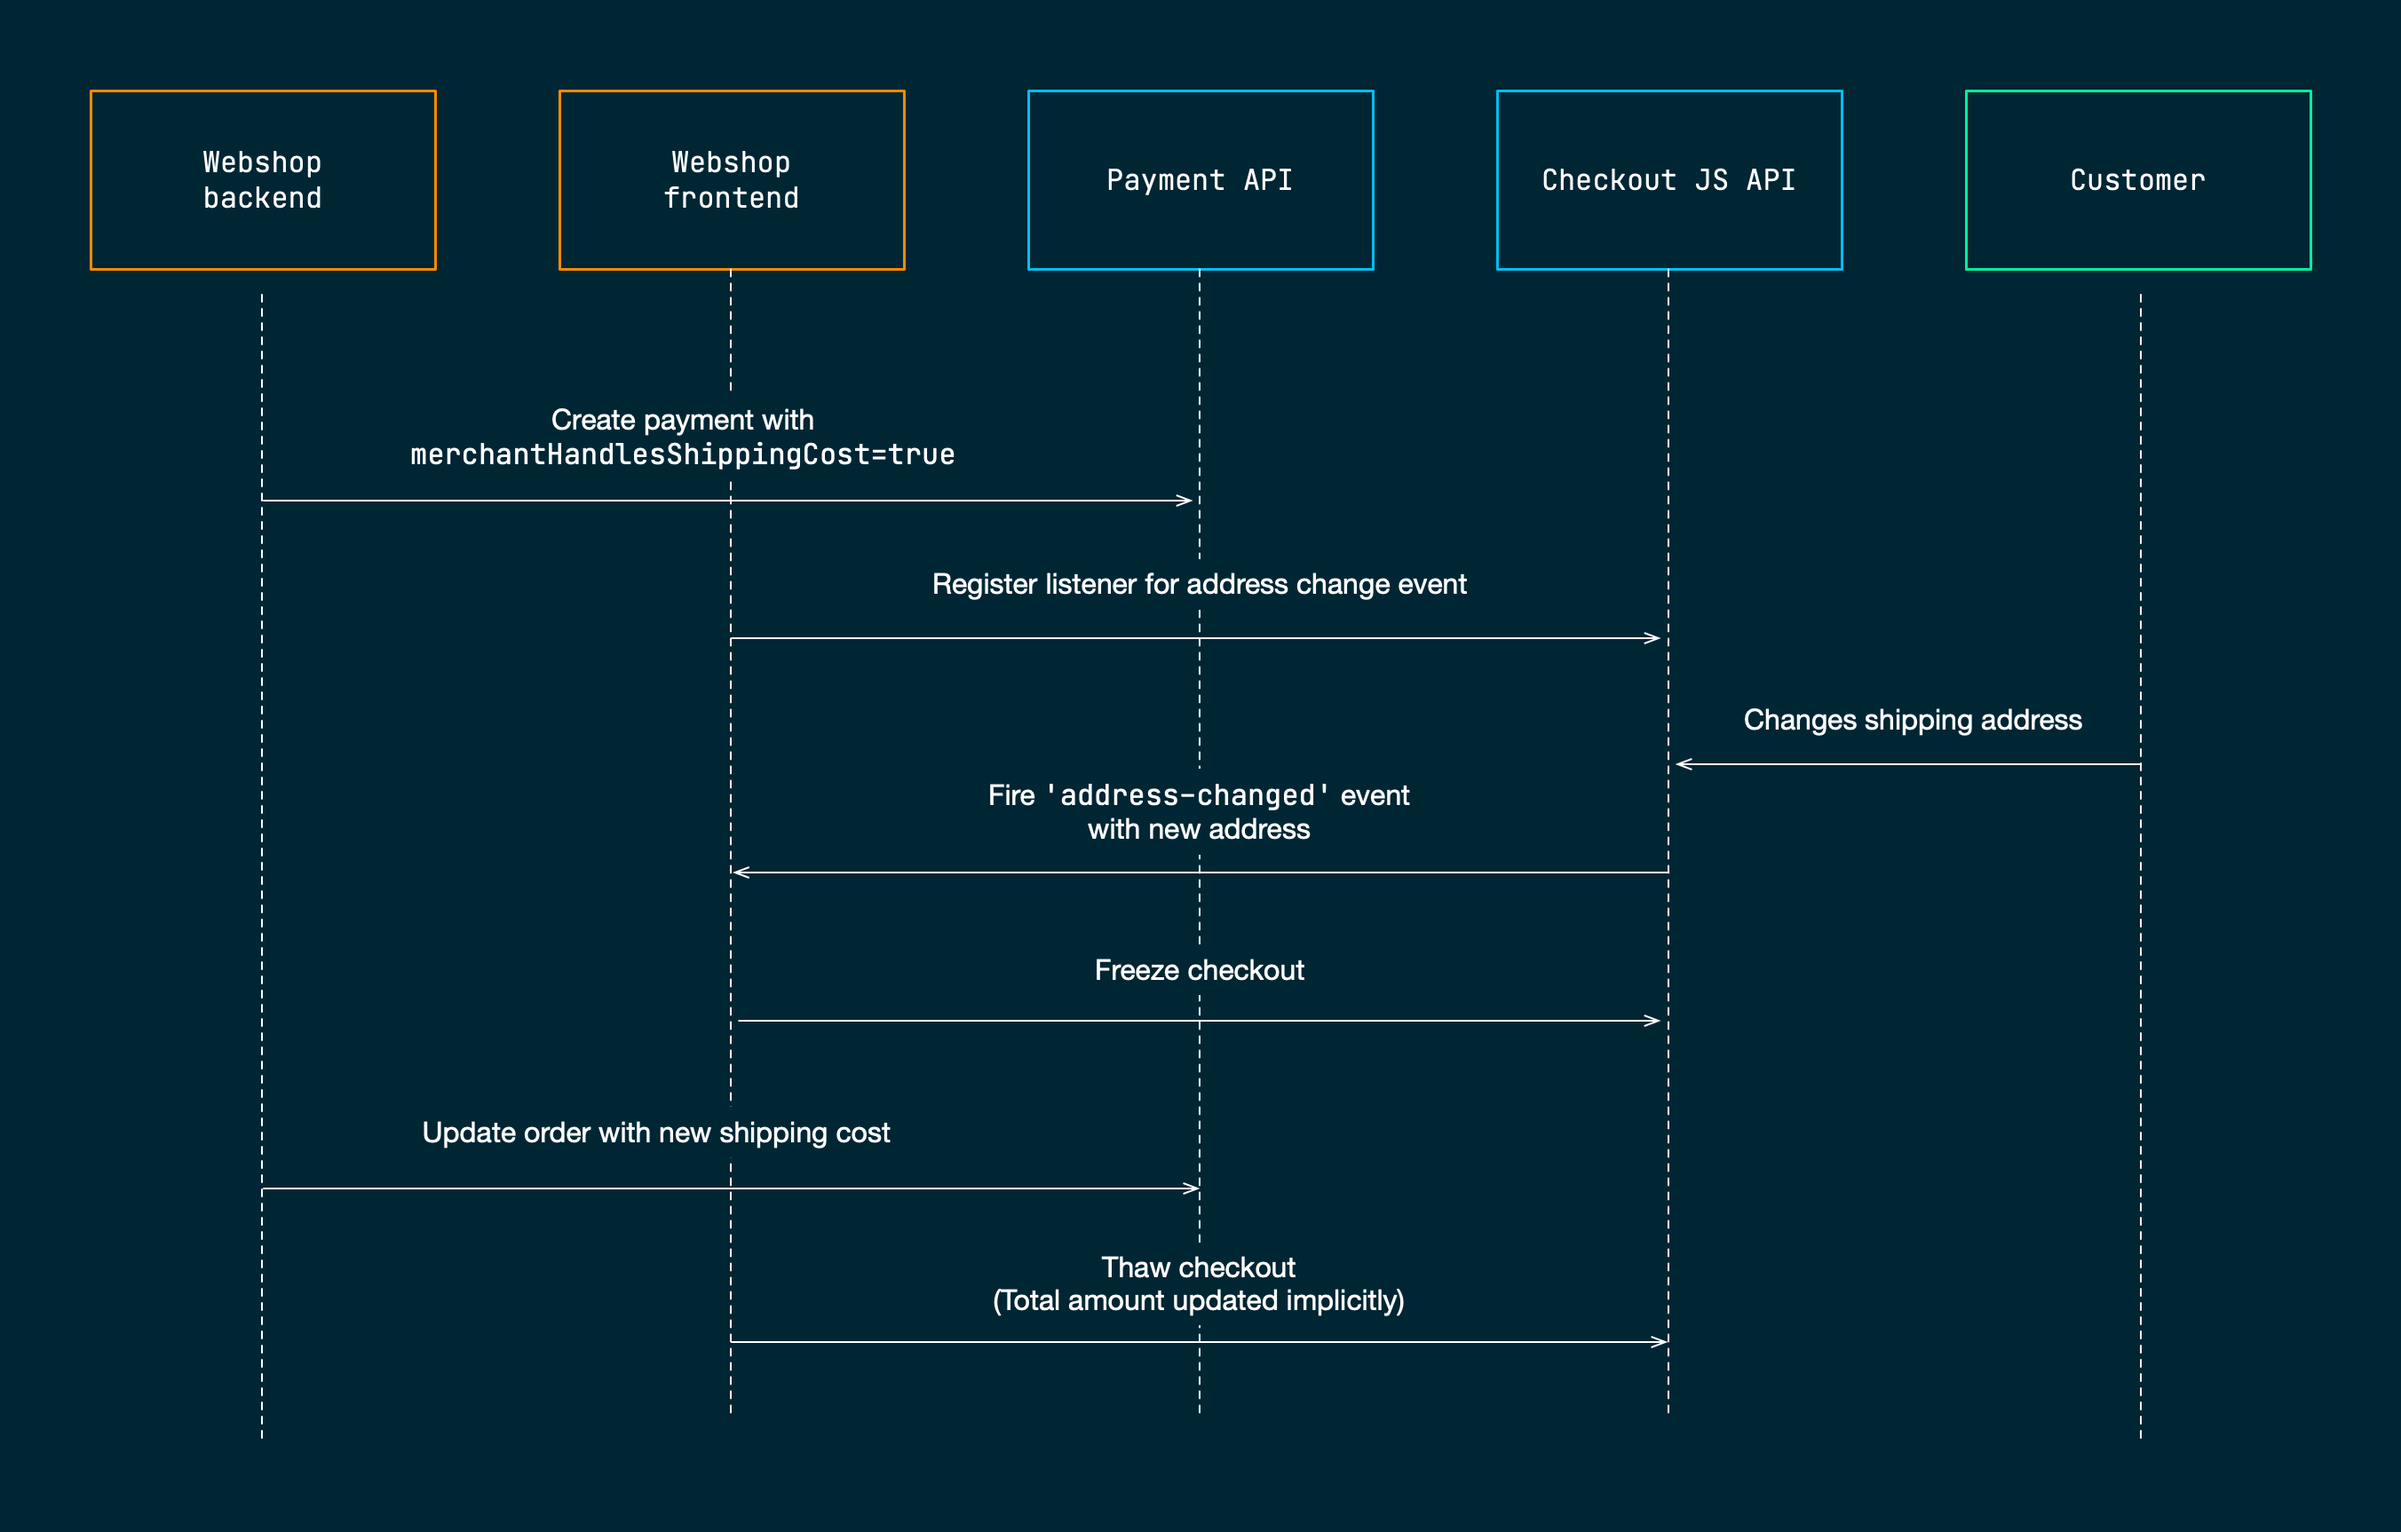
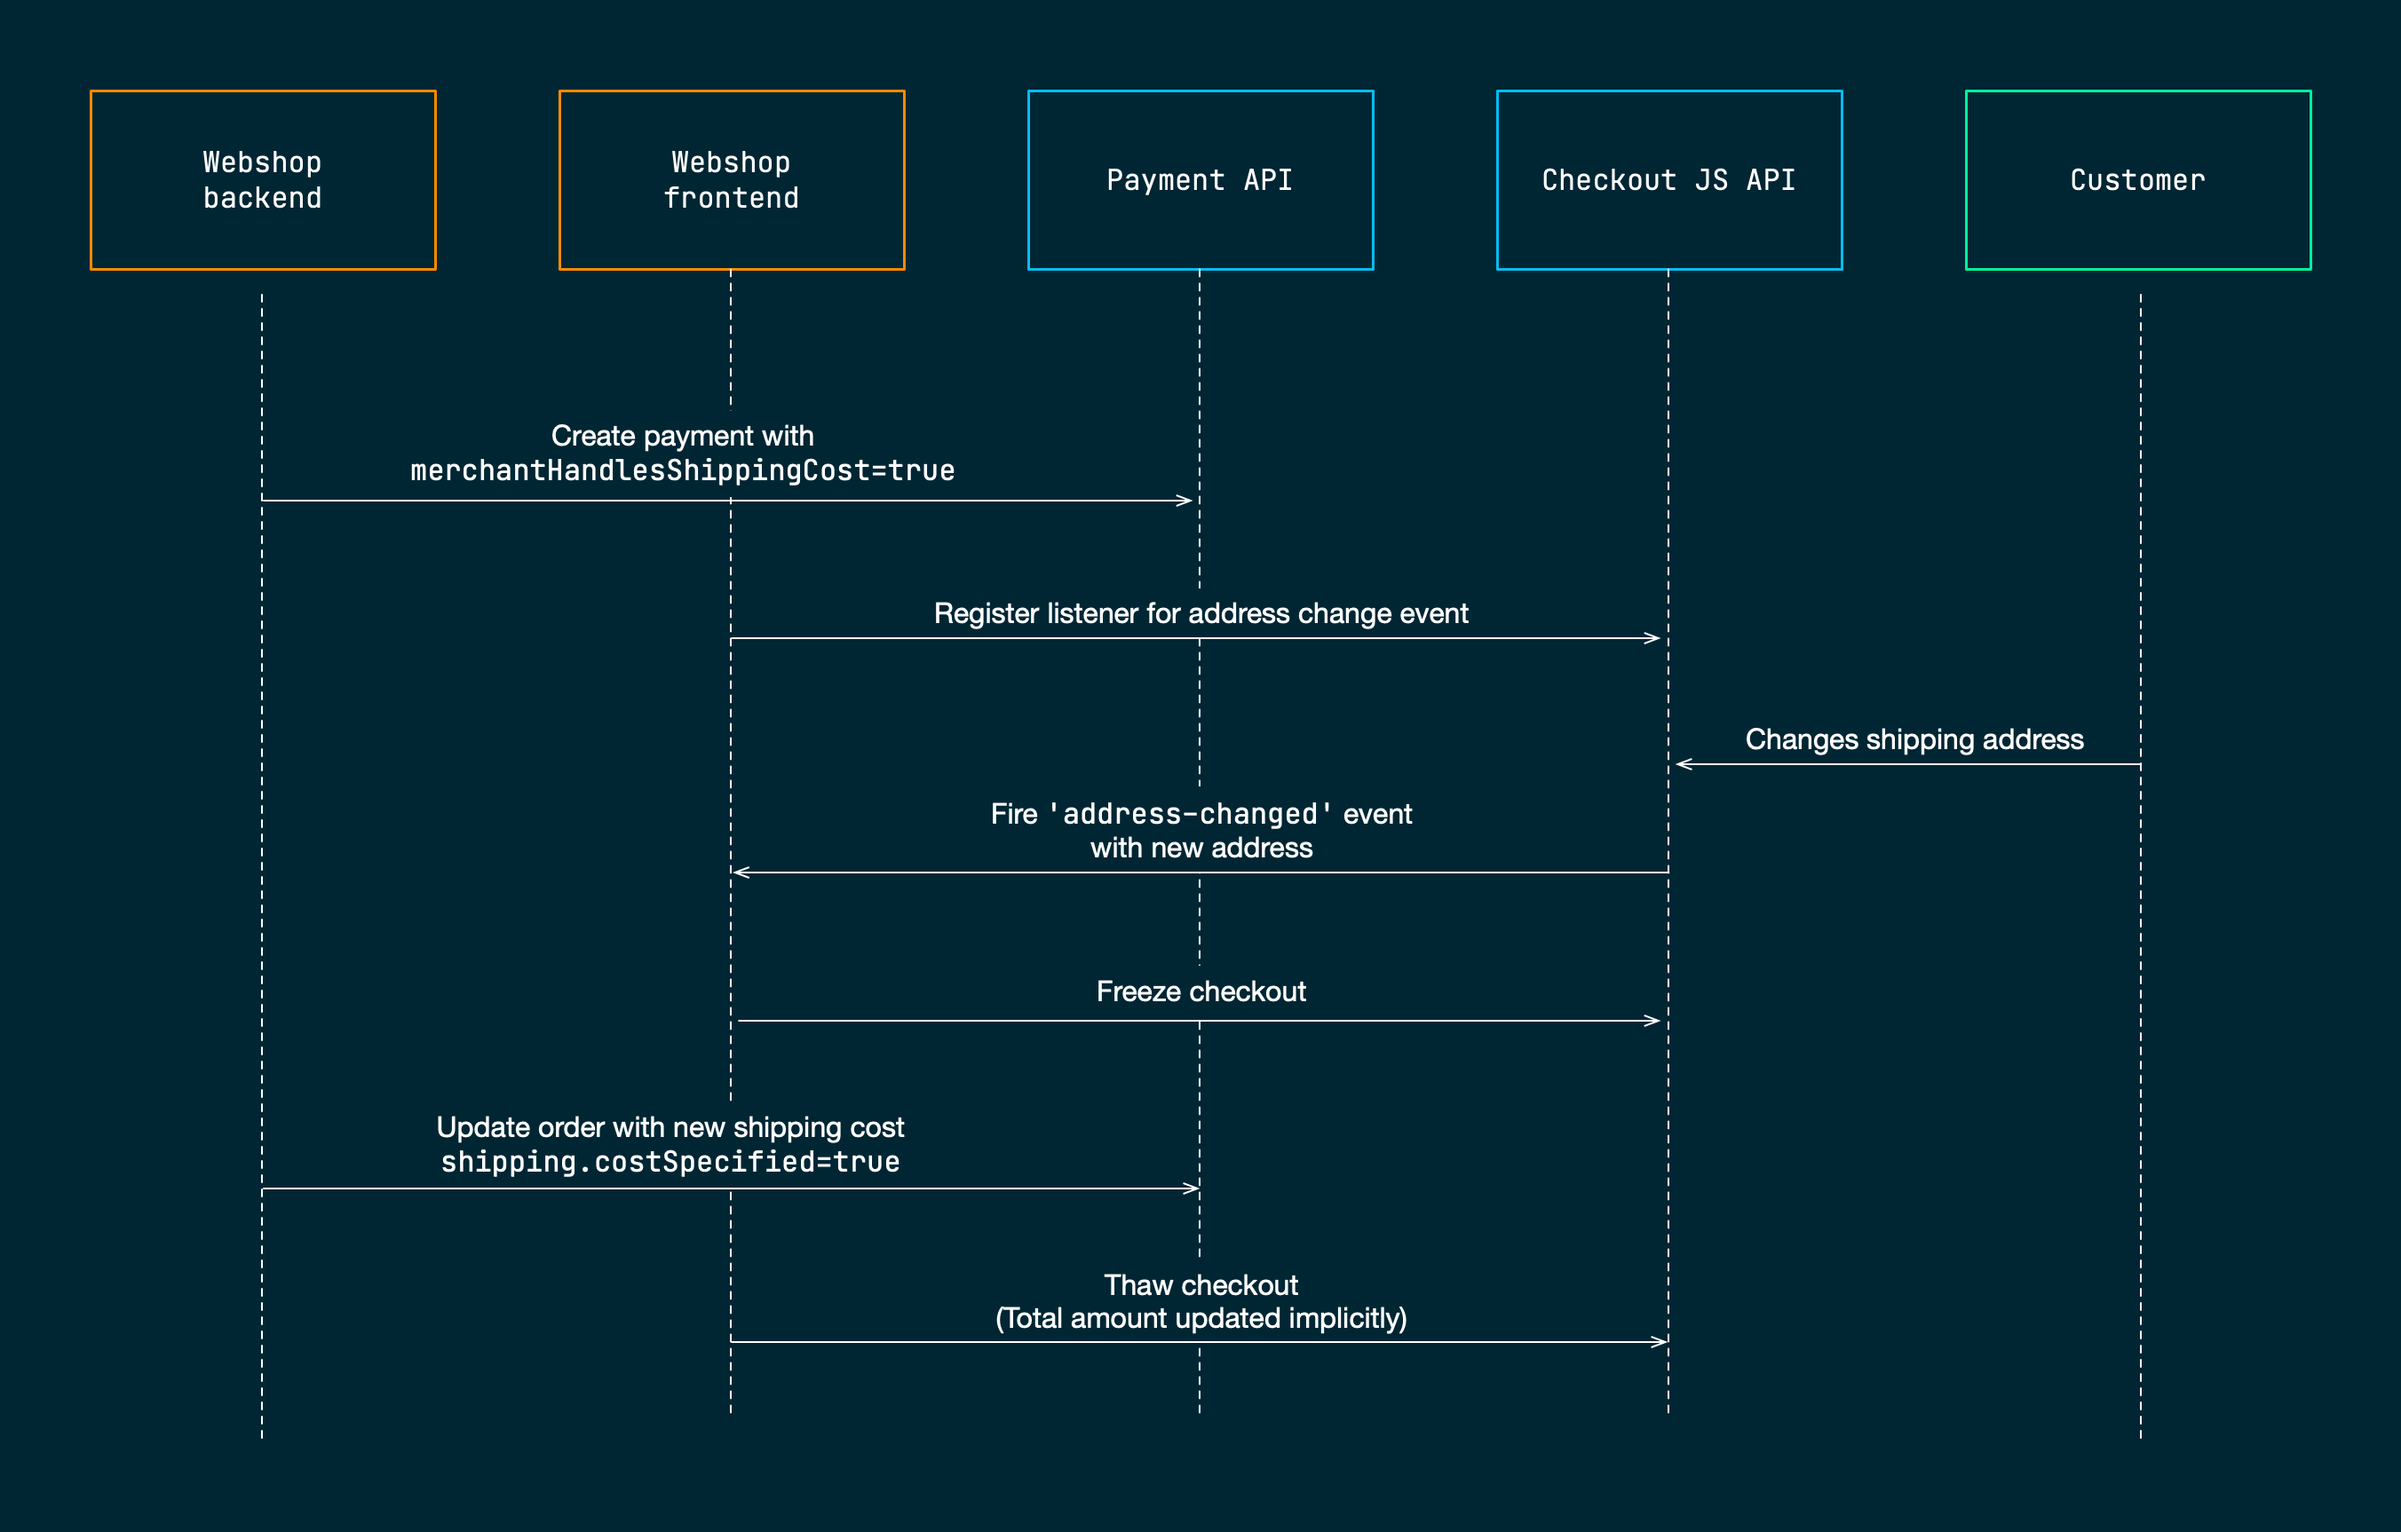
shipping costs

diff --git a/user-testing/add-shipping-costs.md b/user-testing/add-shipping-costs.md
@@ -1,9 +1,9 @@
-# Add shipping cost
+# Add shipping costs
 
-It's possible to add shipping cost to your customer's order. Shipping costs are usually affected at the end of the payment flow when your customer's address is specified. To handle this, your site need to interact with the Easy Checkout during the payment session.
+It's possible to add shipping cost to your customer's order. Shipping costs are usually affected at the end of the payment flow when your customer's address is specified. To handle this, your site need to interact with the Easy Checkout during ongoing the payment session.
 
-Shipping costs are added to the order as a regular item in the `order` object. However, 
-To enable destination based shipping cost, merchant must set the shipping cost flag when creating the payment (checkout.shipping.merchantHandlesShippingCost):
+Shipping costs are added to the order as a regular item in the `order` object passed to the Payment API. However, 
+to enable destination based shipping cost, you must set the flag `merchantHandlesShippingCost` to `true` when creating the payment object using the Payment API. In this way, Easy Checkout will 
 
 
 
@@ -35,7 +35,103 @@ A typical scenario where you want to update an existing payment session is when 
 
 
 
-To update the shipping cost we need to `PUT` a new `items` object to the path `/v1/payments/{paymentId}/orderitems`. The following code shows how calculate a new random shipping cost and update the shipping cost item in the order:
+
+
+Whenever
+
+
+
+
+
+## Step 1: Set merchantHandlesShippingCost (backend)
+
+To be able to handle destination based shipping costs, you need to pass the flag `merchantHandlesShippingCost` when creating the payment object using the method `POST /vi/payments` of the Payment API.
+
+When the backend of your site creates the creating the payment object 
+merchantHandlesShippingCost
+
+Add the flag `merchantHandlesShippingCost` when creating the payment object using the method `POST /vi/payments` of the Payment API. The following JSON object serves as an example:
+
+```json
+{
+  "order": {
+      "items": [
+          {
+              "reference": "42",
+              "name": "Demo product",
+              "quantity": 2,
+              "unit": "hours",
+              "unitPrice": 80000,
+              "grossTotalAmount": 160000,
+              "netTotalAmount": 160000
+          }
+      ],
+      "amount": 160000,
+      "currency": "SEK",
+      "reference": "Demo Order"
+  },
+  "checkout": {
+      "integrationType": "EmbeddedCheckout",
+      "url": "https://<YOUR_SERVER>/checkout.html",
+      "termsUrl": "https://<YOUR_SERVER>/terms.html",
+      "shipping": {
+        "countries": [],
+        "merchantHandlesShippingCost": true
+      }
+  }
+}
+```
+
+By setting `merchantHandlesShippingCost` to `true`, Easy Checkout will not proceed with a payment unless a shipping cost has been added to the order.
+
+## Step 2: Register an `address-changed` listener (frontend)
+
+Add a listener on the `checkout` object so that you get informed whenever your customer is updating the address fields on the payment form:
+
+```javascript
+// ...
+checkout.on('address-changed', function (address) {
+  if (address) {
+    checkout.freezeCheckout();
+    var request = new XMLHttpRequest();
+    request.open("POST", 'update-shipping-cost.php');
+    request.setRequestHeader("Content-Type", "application/json;charset=UTF-8");
+    const body = {
+      paymentId: paymentId,
+      postalCode: address.postalCode,
+      countryCode: address.countryCode
+    };
+    request.onload = function () {
+      console.log(this.response);
+      checkout.thawCheckout();
+    }
+    request.onerror = function () { console.error('connection error'); }
+    request.send(JSON.stringify(body));
+  }
+});
+  // ...
+
+```
+Some things to note in the event handler:
+- The event handler is being called whenever the customer updates the address
+- The new address is passed as an argument to the event handler
+- We freeze the checkout by calling `freezeCheckout()` 
+- We inform our backend that the shipping cost should be recalculated and updated 
+- When the backend has updated the order with a new shipping cost we resume the checkout by calling `thawCheckout()`.
+
+
+
+
+
+
+Step 3: Recalculate shipping cost and update order (backend)
+
+In this step we know that the address has been updated by the customer and the frontend is waiting for the backend to calculate a new shipping cost and updating the payment object we created in step 1.
+
+1. Recalculate the shipping cost
+2. Update the `items` object in the payment object by using the method `PUT /v1/payments/{paymentId}/orderitems` of the Payment API.
+
+The following code shows how calculate a new random shipping cost and update the shipping cost item in the order:
 
 ```php
 <?php
@@ -72,9 +168,7 @@ $ch = curl_init('https://test.api.dibspayment.eu/v1/payments/' . $paymentId . '/
 
 ?>
 ```
-
-We are usinga hard coded JSON template 
-The JSON object that we will use for this example looks like this:
+The code assumes that we are using the following hard-coded JSON file:
 
 ```json
 {
@@ -108,60 +202,5 @@ The JSON object that we will use for this example looks like this:
 }
 ```
 
+By adding a new order item which corresponds to the shipping cost, and, by setting the flag `costSpecified` to `true`, Easy Checkout will allow the payment to proceed once the checkout is resumed by our frontend (see `thawCheckout()` in the previous step).
 
-Whenever
-
-
-
-
-
-## Step 1: Set the merchantHandlesShippingCost flag in the "create payment" request
-
-To be able to handle shipping costs, you need to pass the flag `merchantHandlesShippingCost` when creating the payment object using the method `POST /vi/payments` using the Payment API.
-
-
-When the backend of your site creates the creating the payment object 
-merchantHandlesShippingCost
-
-```json
-{
-  "order": {
-      "items": [
-          {
-              "reference": "42",
-              "name": "Demo product",
-              "quantity": 2,
-              "unit": "hours",
-              "unitPrice": 80000,
-              "grossTotalAmount": 160000,
-              "netTotalAmount": 160000
-          }
-      ],
-      "amount": 160000,
-      "currency": "SEK",
-      "reference": "Demo Order"
-  },
-  "checkout": {
-      "integrationType": "EmbeddedCheckout",
-      "url": "https://<YOUR_SERVER>/checkout.html",
-      "termsUrl": "https://<YOUR_SERVER>/terms.html",
-      "shipping": {
-        "countries": [],
-        "merchantHandlesShippingCost": true
-      }
-  }
-}
-```
-
-In the JSON object we specify that we want to add shipping cost to 
-our order by setting `merchantHandlesShippingCost` to `true`. This will have the effect that Easy Checkout will not proceed with a payment unless a shipping cost has been added to the order.
-
-Step 2: (frontend)
-
-2. On the front-end (javascript), listen to the new event "address-changed"
-
-3. When the address has changed (for example when the consumer changes the delivery address, or when the consumer was initially identified in the checkout):
- 3.1 Recalculate the shipping cost
- 3.2 Update the cart using the new update cart functionality in the payment api (see the "update cart" documentation above), remember to set the shipping.costSpecified flag when updating the cart 
-
-4. If the cart has been updated with the shipping cost (pt 3.2 above), the consumer can continue by clicking pay.
